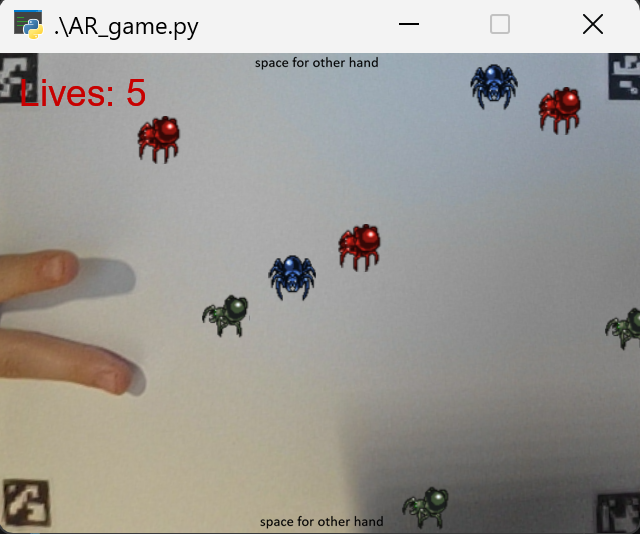
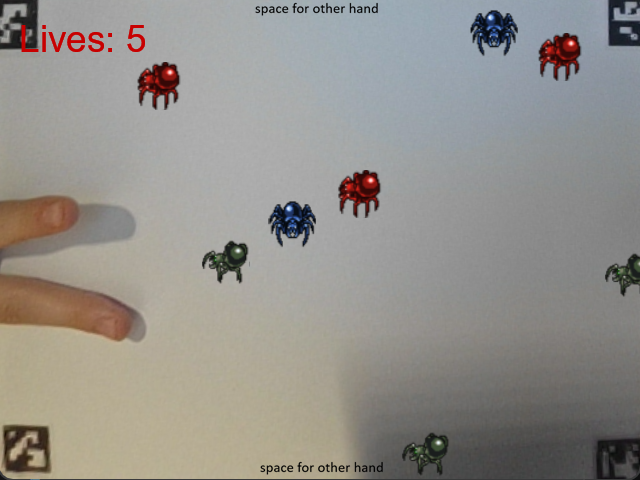
refactor, update readme and set resolution

diff --git a/ar_game/spider_game.py b/ar_game/spider_game.py
@@ -12,14 +12,17 @@ class SpiderGame:
         self.has_ended = False
         self.spiders = []
         self.lives = 5
-        self.SPAWN_INTERVAL = 1
+        self.spawn_interval = 1
         self.last_spawn = 0
         self.run_time = 0
         self.current_spider_img = 1
-        self.speed_divisor  = 10
+        self.speed_divisor = 12
         self.player_cheated = False
         self.cheating_message = ""
         self.cheating_detection_running = False
+        self.countdown_time = 0
+        self.center_text = None
+        self.lives_text = None
 
     def start(self):
         self.is_started = True
@@ -39,6 +42,51 @@ class SpiderGame:
 
     def get_score_from_runtime(self):
         return int(self.run_time)
+
+    def update_countdown(self, dt):
+        self.countdown_time += dt
+
+        if self.countdown_time < 1:
+            self.center_text.text = "3"
+        elif self.countdown_time < 2:
+            self.center_text.text = "2"
+        elif self.countdown_time < 3:
+            self.center_text.text = "1"
+        elif self.countdown_time < 4:
+            self.center_text.text = "Start!"
+        else:
+            self.start()
+            self.countdown_time = 0
+            self.center_text.text = ""
+
+    def create_center_text(self, batch):
+        self.center_text = pyglet.text.Label(
+            "Show the game board to start!",
+            font_name="Arial",
+            font_size=28,
+            multiline=True,
+            x=self.window.width // 2,
+            y=self.window.height // 2,
+            batch=batch,
+            anchor_x="center",
+            anchor_y="center",
+            width=self.window.width // 1.25,
+            color=(200, 0, 0),
+            align="center",
+        )
+
+    def create_lives_text(self, batch):
+        self.lives_text = pyglet.text.Label(
+            "Lives: 5",
+            font_name="Arial",
+            font_size=28,
+            x=20,
+            y=self.window.height - 20,
+            anchor_x="left",
+            anchor_y="top",
+            batch=batch,
+            color=(200, 0, 0),
+        )
 
     def create_spider(self, batch):
         SPIDER_PATH = f".{os.sep}assets{os.sep}spider0{self.current_spider_img}.png"
@@ -61,14 +109,21 @@ class SpiderGame:
         else:
             self.current_spider_img += 1
         return spider
-    
-    def increase_movement_speed(self):
-        if self.speed_divisor > 4:
-            self.speed_divisor -= 0.05
+
+    def increase_game_speed(self):
+        MIN_DIVISOR = 4
+        SPEED_STEP = 0.05
+        if self.speed_divisor > MIN_DIVISOR:
+            self.speed_divisor -= SPEED_STEP
+            
+        MIN_INTERVAL = 0.25
+        SPAWN_STEP = 0.005
+        if self.spawn_interval > MIN_INTERVAL:
+            self.spawn_interval -= SPAWN_STEP
 
     def move_spiders(self, dt):
         for spider in self.spiders:
-            spider.x -=  (self.window.width // self.speed_divisor) * dt
+            spider.x -= (self.window.width // self.speed_divisor) * dt
 
     def check_spiders_reach_end(self):
         for spider in self.spiders:
@@ -78,29 +133,28 @@ class SpiderGame:
                 break  # break bc only 1 at a time reaches end due to spawn interval
 
     def destroy_hit_spiders(self, processed_frame):
-        
-        for spider in self.spiders.copy():
-            spider_cv_x, spider_cv_y = opencv_pyglet.convert_pyglet_to_cv_coords(
-                self.window.height, int(spider.x), int(spider.y)
-            )
 
-            spider_frame_cropped = processed_frame[
-                spider_cv_y : spider_cv_y + spider.height,
-                spider_cv_x : spider_cv_x + spider.width
-            ]
-            
-            black_pixels = np.sum(spider_frame_cropped == 0)
-            ratio = black_pixels / spider_frame_cropped.size
-            
-            
-            HIT_THRESHOLD = 0.01
-            
-            if ratio > HIT_THRESHOLD:
-                self.spiders.remove(spider)
-                spider.delete()
+        for spider in self.spiders.copy():
+            # only do stuff if spider is in frame
+            if spider.x <= self.window.width:
                 
+                spider_cv_x, spider_cv_y = opencv_pyglet.convert_pyglet_to_cv_coords(
+                    self.window.height, int(spider.x), int(spider.y)
+                )
                 
-            
+                spider_frame_cropped = processed_frame[
+                    spider_cv_y : spider_cv_y + spider.height,
+                    spider_cv_x : spider_cv_x + spider.width,
+                ]
+
+                black_pixels = np.sum(spider_frame_cropped == 0)
+                ratio = black_pixels / spider_frame_cropped.size
+
+                HIT_THRESHOLD = 0.01
+
+                if ratio > HIT_THRESHOLD:
+                    self.spiders.remove(spider)
+                    spider.delete()
 
     def end_game_after_cheating(self, cheating_message):
         if self.cheating_detection_running:
@@ -111,7 +165,9 @@ class SpiderGame:
     def check_for_cheating_hand_mid(self, processed_frame):
         border_offset_y = self.window.height // 8
         border_offset_x = self.window.width // 4
-        img_cropped = processed_frame[border_offset_y:-border_offset_y, border_offset_x:-border_offset_x]
+        img_cropped = processed_frame[
+            border_offset_y:-border_offset_y, border_offset_x:-border_offset_x
+        ]
 
         black_pixels = np.sum(img_cropped == 0)
 
@@ -122,8 +178,6 @@ class SpiderGame:
         if ratio > GRACE_THRESHOLD:
             cheating_message = "You can't put your hand in the middle!"
             self.end_game_after_cheating(cheating_message)
-            
-        
 
     def check_for_cheating_too_much_hand(self, processed_frame):
         black_pixels = np.sum(processed_frame == 0)

diff --git a/ar_game/AR_game.py b/ar_game/AR_game.py
@@ -22,6 +22,14 @@ if len(sys.argv) > 1:
 
 cap = cv2.VideoCapture(video_id)
 
+try:
+    cap.set(cv2.CAP_PROP_FRAME_WIDTH, sys.maxsize)
+    cap.set(cv2.CAP_PROP_FRAME_HEIGHT,  sys.maxsize)
+    # just use maxsize bc these methods somehow falls back to biggest possible (!) resolution anyway 
+except:
+    pass # just in case
+
+
 frame_width = int(cap.get(cv2.CAP_PROP_FRAME_WIDTH))
 frame_height = int(cap.get(cv2.CAP_PROP_FRAME_HEIGHT))
 
@@ -29,6 +37,23 @@ frame_height = int(cap.get(cv2.CAP_PROP_FRAME_HEIGHT))
 window = pyglet.window.Window(frame_width, frame_height)
 
 aruco = ArucoDetector()
+
+
+last_timestamp = time.time()
+time_without_board = 0
+last_corners = None
+
+game = SpiderGame(window)
+
+batch = pyglet.graphics.Batch()
+
+text_group = pyglet.graphics.Group(order=1)
+
+
+game.create_lives_text(batch)
+game.create_center_text(batch)
+
+processed_frame = None
 
 
 def get_points_for_outer_rect(points):
@@ -57,71 +82,25 @@ def transform_frame_with_corners(frame, corners):
     return transformed_frame
 
 
-def create_lives_text(batch, text_group):
-    return pyglet.text.Label(
-        "Lives: 5",
-        font_name="Arial",
-        font_size=28,
-        x=20,
-        y=window.height - 20,
-        anchor_x="left",
-        anchor_y="top",
-        batch=batch,
-        group=text_group,
-        color=(200, 0, 0),
-    )
-
-
-def create_center_text(batch):
-    center_text = pyglet.text.Label(
-        "Show the game board to start!",
-        font_name="Arial",
-        font_size=28,
-        multiline=True,
-        x=window.width // 2,
-        y=window.height // 2,
-        batch=batch,
-        anchor_x="center",
-        anchor_y="center",
-        width=window.width // 1.25,
-        color=(200, 0, 0),
-        align="center",
-    )
-    return center_text
-
-
-last_timestamp = time.time()
-time_without_board = 0
-last_corners = None
-
-game = SpiderGame(window)
-
-batch = pyglet.graphics.Batch()
-
-text_group = pyglet.graphics.Group(order=1)
-
-
-lives_text = create_lives_text(batch, text_group)
-center_text = create_center_text(batch)
-processed_frame = None
-
-
 @window.event
 def on_key_press(symbol, modifiers):
-    global game, center_text
+    global game, batch
 
     if symbol == pyglet.window.key.ESCAPE:
         window.close()
         pyglet.app.exit()
     elif symbol == pyglet.window.key.SPACE and game.has_ended:
         game = SpiderGame(window)
-        center_text.text = "Show the game board to start!"
+        batch = pyglet.graphics.Batch()
+        game.create_lives_text(batch)
+        game.create_center_text(batch)
+        game.center_text.text = "Show the game board to start!"
 
 
 def update_game(dt):
-    global center_text, batch, processed_frame
+    batch, processed_frame
 
-    lives_text.text = f"Lives: {game.lives}"
+    game.lives_text.text = f"Lives: {game.lives}"
 
     if game.lives == 0:
         game.end()
@@ -129,35 +108,22 @@ def update_game(dt):
     if game.has_ended:
         score = game.get_score_from_runtime()
         if game.player_cheated:
-            center_text.text = f"You cheated!\n Your score is 0!\n{game.cheating_message}\nSPACE = restart\nESC = close"
+            game.center_text.text = f"You cheated!\n Your score is 0!\n{game.cheating_message}\nSPACE = restart\nESC = close"
         else:
-            center_text.text = f"Game Over! You died.\n Your score is {score}!\nSPACE = restart\nESC = close"
+            game.center_text.text = f"Game Over! You died.\n Your score is {score}!\nSPACE = restart\nESC = close"
     if not game.has_ended:
         if not game.is_paused and not game.is_started:
-            game.run_time += dt
-            if game.run_time <= 1:
-                center_text.text = "3"
-            elif game.run_time <= 2:
-                center_text.text = "2"
-            elif game.run_time <= 3:
-                center_text.text = "1"
-            elif game.run_time <= 4:
-                center_text.text = "Start!"
-            else:
-                game.start()
-                game.run_time = 0
-                center_text.text = ""
-
+            game.update_countdown(dt)
         if game.is_paused and game.is_started:
-            center_text.text = "Game paused! Show board to resume!"
+            game.center_text.text = "Game paused! Show board to resume!"
 
         if not game.is_paused and game.is_started:
-            center_text.text = ""
+            game.center_text.text = ""
             game.run_time += dt
-            if game.run_time > game.last_spawn + game.SPAWN_INTERVAL:
+            if game.run_time > game.last_spawn + game.spawn_interval:
                 game.create_spider(batch)
                 game.last_spawn = game.run_time
-                game.increase_movement_speed()
+                game.increase_game_speed()
             game.move_spiders(dt)
             game.check_spiders_reach_end()
             if processed_frame is not None:
@@ -165,7 +131,6 @@ def update_game(dt):
                 if game.cheating_detection_running:
                     game.check_for_cheating_hand_mid(processed_frame)
                     game.check_for_cheating_too_much_hand(processed_frame)
-            
 
 
 @window.event
@@ -212,13 +177,15 @@ def on_draw():
         img = opencv_pyglet.cv2glet(cv_frame, "BGR")
 
     if transformed_frame is not None:
-        processed_frame = image_processing.process_frame(transformed_frame, show_result=False)
+        processed_frame = image_processing.process_frame(
+            transformed_frame, show_result=False
+        )
 
     img.blit(0, 0, 0)
 
     batch.draw()
 
 
-pyglet.clock.schedule_interval(update_game, 0.02)  # 50 fps
+pyglet.clock.schedule_interval(update_game, 0.01)  # 100 fps
 
 pyglet.app.run()

diff --git a/README.md b/README.md
@@ -25,11 +25,11 @@
 
 # 2 AR Game
 - Install the required packages from [`requirements.txt`](requirements.txt)
-- Run [`AR_Ggame.py`](./ar_game/AR_game.py) located in [`ar_game`](./ar_game/) via command line `python .\AR_game.py`
+- Run [`AR_game.py`](./ar_game/AR_game.py) located in [`ar_game`](./ar_game/) via command line `python .\AR_game.py`
 - Show your ARUCO board to play (see instructions in game)
 - It is best to hold the board at the edge on either the bottom or top. The board needs to be presented horizontally.
 - Place one hand on the left side of the board
-- Use one or two fingers (not more) to destroy spiders (move your fingers to their poistion) 
+- Use one or two fingers (not more) to destroy spiders by moving your fingertips to their (vertical) poistion
 - Be careful not no move your fingers too far towards the middle. That's considered cheating! As a guideline: If your other fingers are tucked away behind the board and your knuckles don't show up on the board you are fine. 
 
 
